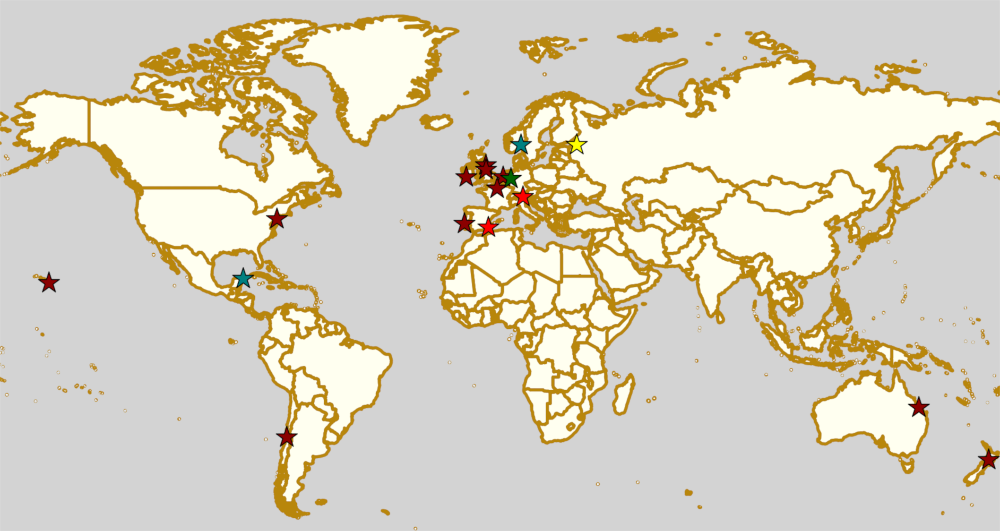
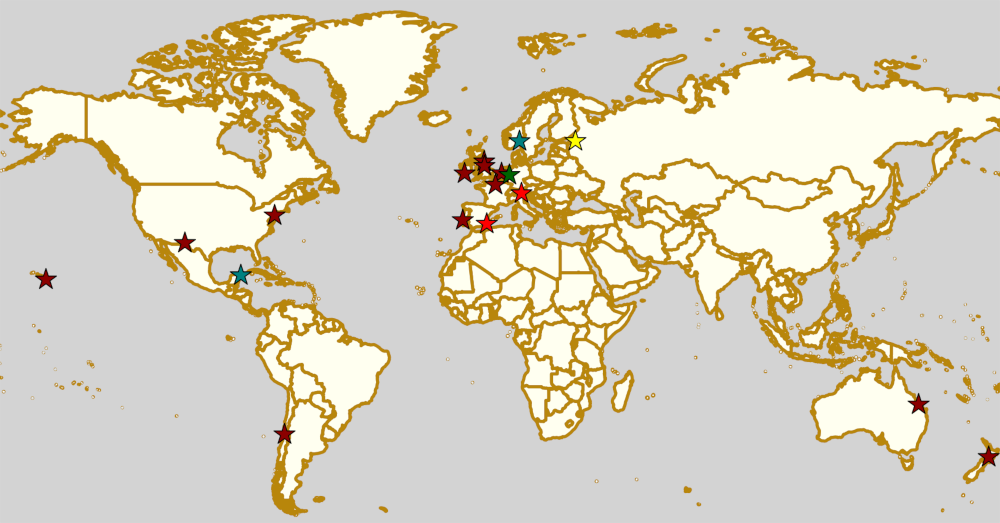
Added that last-minute-announced Medias Rotas v Juniors game to 22 June

diff --git a/output/posts/highlights/2019/weekendhighlights-22062019/index.html b/output/posts/highlights/2019/weekendhighlights-22062019/index.html
@@ -266,6 +266,17 @@ get themselves an actual webpage [we can help host one if you need help]).</p>
 </ul>
 <p>Event starts: 1100 Saturday (first game)</p>
 <p>Venue: Complejo deportivo Jonatan Araya, Tranque sur Forestal, Viña del Mar, Chile</p>
+</div>
+<div class="section" id="sat-ciudad-juarez-mexico">
+<h2>Sat: Ciudad Juárez, Mexico</h2>
+<p><a class="reference external" href="https://www.facebook.com/medias.rotas.RD/photos/a.899314763450580/2261445187237524/?type=3">[FACEBOOK LINK (flyer, no event)]</a></p>
+<p><a class="reference external" href="https://www.instagram.com/mediasrotasrd/">Medias Rotas Roller Derby</a> host an exciting, and relatively rare event: a junior team playing their own adult team!</p>
+<ul class="simple">
+<li>Medias Rotas Roller Derby versus Medias Rotas Juniors!</li>
+</ul>
+<p><em>Not listed on FTS, as FTS has historically not tracked juniors well</em></p>
+<p>Event starts: 1930 Saturday</p>
+<p>Venue: Parque Fidel Velázquez VI, Ciudad Juárez, Mexico</p>
 <hr class="docutils">
 <div class="section" id="additionally-these-events-in-north-america-are-of-interest-due-to-the-attendance-of-other-teams">
 <h3>Additionally, these events in North America are of interest due to the attendance of other teams:</h3>

diff --git a/output/posts/highlights/2019/weekendhighlights-22062019/index.rst b/output/posts/highlights/2019/weekendhighlights-22062019/index.rst
@@ -377,6 +377,25 @@ Event starts: 1100 Saturday (first game)
 
 Venue: Complejo deportivo Jonatan Araya, Tranque sur Forestal, Viña del Mar, Chile
 
+Sat: Ciudad Juárez, Mexico
+--------------------------------
+
+`[FACEBOOK LINK (flyer, no event)]`__
+
+.. __: https://www.facebook.com/medias.rotas.RD/photos/a.899314763450580/2261445187237524/?type=3
+
+`Medias Rotas Roller Derby`_ host an exciting, and relatively rare event: a junior team playing their own adult team!
+
+.. _Medias Rotas Roller Derby: https://www.instagram.com/mediasrotasrd/
+
+- Medias Rotas Roller Derby versus Medias Rotas Juniors!
+
+*Not listed on FTS, as FTS has historically not tracked juniors well*
+
+Event starts: 1930 Saturday
+
+Venue: Parque Fidel Velázquez VI, Ciudad Juárez, Mexico
+
 =====
 
 

diff --git a/posts/highlights/2019/wknd-22Jun2019.rst b/posts/highlights/2019/wknd-22Jun2019.rst
@@ -377,6 +377,25 @@ Event starts: 1100 Saturday (first game)
 
 Venue: Complejo deportivo Jonatan Araya, Tranque sur Forestal, Viña del Mar, Chile
 
+Sat: Ciudad Juárez, Mexico
+--------------------------------
+
+`[FACEBOOK LINK (flyer, no event)]`__
+
+.. __: https://www.facebook.com/medias.rotas.RD/photos/a.899314763450580/2261445187237524/?type=3
+
+`Medias Rotas Roller Derby`_ host an exciting, and relatively rare event: a junior team playing their own adult team!
+
+.. _Medias Rotas Roller Derby: https://www.instagram.com/mediasrotasrd/
+
+- Medias Rotas Roller Derby versus Medias Rotas Juniors!
+
+*Not listed on FTS, as FTS has historically not tracked juniors well*
+
+Event starts: 1930 Saturday
+
+Venue: Parque Fidel Velázquez VI, Ciudad Juárez, Mexico
+
 =====
 
 
